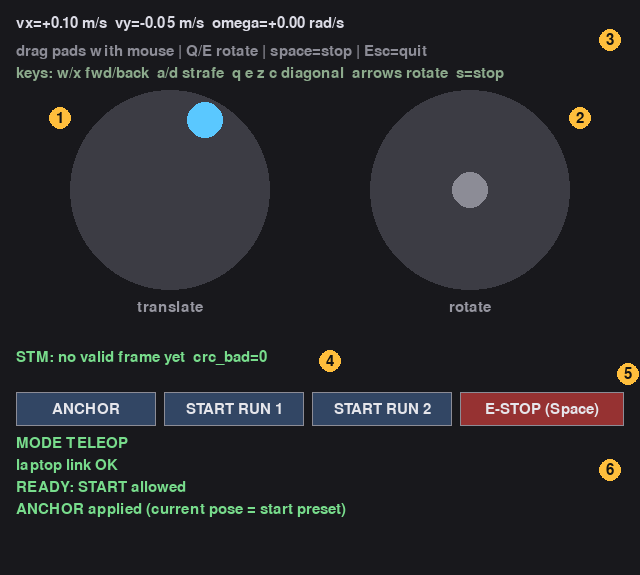
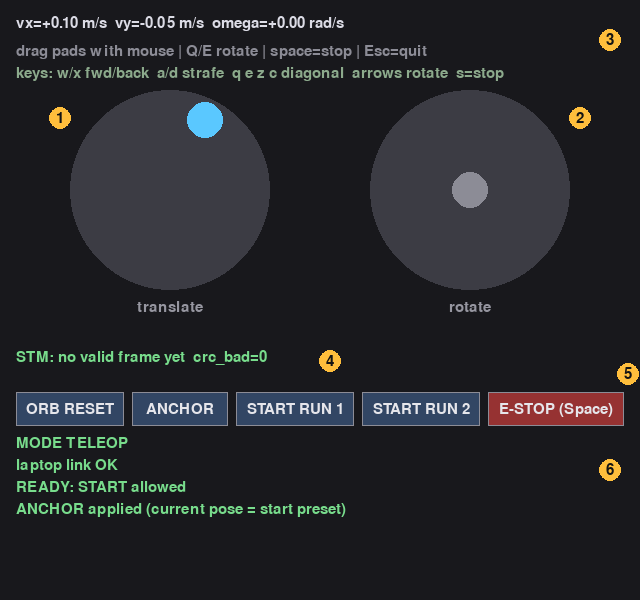
ksrc: ORB 자동 재시작이 ORB를 계속 죽이던 문제 수정, 조이스틱 ORB RESET 버튼 추가
- 원인: 복구 중 runner가 2초 뒤부터 8초마다 restart_orb를 요청해 ORB를 재시작했고, ORB는 어휘 로드·초기화로
  첫 pose까지 8~10초가 걸려(Pi 실측: 첫 orb_ok 8.0~10.1 s) 매번 pose 직전에 죽었다. 추적을 한 번 잃으면
  복구가 영영 끝나지 않았다(세션 224311·230802·231151에서 ORB 13~32회 재시작, 복구 0)
- 수정: ORB 프레임이 10초 넘게 끊겼을 때만 재시작을 요청하고, 재시작 후 30초는 다시 죽이지 않는다
  (orb_restart_due). 시작에 10초 걸리는 ORB가 복구되는 시뮬레이션 회귀 테스트 추가
- ORB RESET 버튼: ORB_RESET op(6)을 gateway가 TELEOP일 때만 runner로 전달, runner는 pose를 보존한 복구 절차로
  들어가고 restart_orb를 만든다. 대기 중에만 활성(AUTO 중 회색). 재시작 후 30초 유예 적용
- FAKE 스택으로 ORB_RESET → restart_orb 생성·recovery_start(operator_orb_reset) 확인
- CLI.md: ORB RESET 사용법·상태 줄·막혔을 때 표, 스크린샷 갱신
- ORIGIN.json의 control_gateway 해시 갱신

diff --git a/deployment/ksrc/runner.py b/deployment/ksrc/runner.py
@@ -41,6 +41,16 @@ def pack_vo(seq: int, stamp_ns: int, vx: float, vy: float, valid: bool) -> bytes
     return struct.pack('<4sIqffI', b'KVO1', seq & 0xFFFFFFFF, stamp_ns, vx, vy, int(valid))
 
 
+ORB_LOST_RESTART_S = 10.   # 복구 중 이 시간 동안 ORB 프레임이 없을 때만 ORB 재시작을 요청한다(ORB가 스스로 복구할 시간)
+ORB_STARTUP_GRACE_S = 30.  # 재시작한 ORB는 어휘 로드·초기화로 첫 pose까지 8~10 s 걸린다(Pi 실측). 그동안 다시 죽이지 않는다
+
+
+def orb_restart_due(recovering: bool, now: float, next_restart: float, t: float, recovery_since: float, last_frame: float) -> bool:
+    """복구 중이고 ORB 프레임이 ORB_LOST_RESTART_S 넘게 없으며 유예가 끝났을 때만 ORB 재시작을 요청한다."""
+    return (recovering and now >= next_restart and t - recovery_since > ORB_LOST_RESTART_S
+            and t - last_frame > ORB_LOST_RESTART_S)
+
+
 GATEWAY_STATUS_KEYS = ('orb_ok', 'in_region1', 'done', 'start_aligned', 'active', 'recovering', 'run', 'stage', 'anchor_count')
 
 
@@ -287,6 +297,13 @@ class Navigation:
         self.events.append(dict(type='operator_anchor', stamp_s=now, pose=self.prior.tolist()))
         return True
 
+    def orb_reset(self, now: float) -> bool:
+        """운영자의 ORB 재시작 요청. AUTO 중에는 거절하고, 대기 중이면 pose를 보존한 채 복구 절차로 들어간다."""
+        if self.active:
+            return False
+        self.fail_tracking(now, 'operator_orb_reset')
+        return True
+
     def tick(self, now: float) -> dict:
         """50 Hz 제어에서 센서가 무효하거나 복구 중이면 0 명령을 출력한다."""
         zero = dict(command=(0., 0., 0.))
@@ -386,7 +403,7 @@ def main() -> None:
 
     signal.signal(signal.SIGTERM, stop_signal)
     signal.signal(signal.SIGINT, stop_signal)
-    seq, next_tick, next_status, next_restart, logged = 0, origin, origin, origin + 8., 0
+    seq, next_tick, next_status, next_restart, logged = 0, origin, origin, origin + ORB_STARTUP_GRACE_S, 0
     with (args.state_dir / 'navigation.jsonl').open('a', buffering=1) as log:
         try:
             while not stopped:
@@ -413,6 +430,10 @@ def main() -> None:
                                     nav.stop()
                                 elif data.get('op') == 'ANCHOR':
                                     nav.anchor(now)
+                                elif data.get('op') == 'ORB_RESET':
+                                    if nav.orb_reset(now):
+                                        (args.state_dir / 'restart_orb').touch()   # ORB 프로세스는 supervisor가 재시작한다
+                                        next_restart = time.monotonic() + ORB_STARTUP_GRACE_S   # 새 ORB가 올라올 때까지 자동 재시작 보류
                                 continue
                             stamp = float(data['monotonic_s']) - origin
                             if stamp > now + .02 or now - stamp > .5 or stamp < 0:
@@ -448,9 +469,9 @@ def main() -> None:
                     temporary.replace(args.state_dir / 'status.json')
                     log.write(json.dumps(dict(type='tick', stamp_s=t, command=result['command'], pose=nav.checkpoint.tolist(), **status)) + '\n')
                     next_status = now + .2
-                if nav.recovering and now >= next_restart and t - nav.recovery_since > 2.:
+                if orb_restart_due(nav.recovering, now, next_restart, t, nav.recovery_since, nav.last_frame):
                     (args.state_dir / 'restart_orb').touch()
-                    next_restart = now + 8.
+                    next_restart = now + ORB_STARTUP_GRACE_S
                 for event in nav.events[logged:]:
                     log.write(json.dumps(event) + '\n')
                 logged = len(nav.events)

diff --git a/teleop/ksrc_snapshot/pi/teleop/gateway_client.py b/teleop/ksrc_snapshot/pi/teleop/gateway_client.py
@@ -2,17 +2,18 @@
 # gateway_client.py
 # 설명: 조이스틱 화면이 Pi의 control_gateway(텔레옵↔자동 중계)에 제어 메시지(하트비트·비상·시작)를 보내고
 #       중계가 5 Hz로 돌려주는 상태를 받아 두는 클라이언트. pygame과 무관해서 화면 없이 시험할 수 있다.
-# 사용법: gw = GatewayClient(udp_socket, (host, 5006)); gw.tick(now); gw.start(1); gw.anchor(now); gw.lines(now)
+# 사용법: gw = GatewayClient(udp_socket, (host, 5006)); gw.tick(now); gw.start(1); gw.anchor(now); gw.orb_reset(now); gw.lines(now)
 # ================================================================
 import math
 import struct
 
 CTL = struct.Struct("<4sIB3f")   # control_gateway의 KCTL 형식: 순서번호, 동작, 값 3개
-HEARTBEAT, START, ESTOP, ANCHOR = 1, 3, 4, 5   # 번호는 control_gateway와 같다(2는 쓰지 않는다)
+HEARTBEAT, START, ESTOP, ANCHOR, ORB_RESET = 1, 3, 4, 5, 6   # 번호는 control_gateway와 같다(2는 쓰지 않는다)
 ESTOP_REPEAT = 3                 # UDP 손실에 대비해 비상 정지를 연달아 보낸다
 STATUS_FRESH_S = 1.5
 ANCHOR_REPLY_S = 1.5             # 이 시간 안에 anchor_count가 늘지 않으면 거절된 것으로 본다
 STATIONARY_NEED_S = 3.0          # control_gateway의 ready_stationary_s와 같다
+ORB_RESET_NOTE_S = 3.0           # ORB RESET을 보낸 뒤 이 시간 동안 안내 줄을 보인다
 
 
 class GatewayClient:
@@ -23,6 +24,7 @@ class GatewayClient:
         self.seq = 0
         self.status, self.status_at = {}, -math.inf
         self.next_heartbeat = 0.0
+        self.orb_reset_at = -math.inf
         self.anchor_wait, self.anchor_result = None, None   # (보낸 시각, 그때의 anchor_count), applied/rejected/sent
 
     def _send(self, op, a=0.0, b=0.0, c=0.0):
@@ -48,6 +50,14 @@ class GatewayClient:
     def anchor(self, now):
         self._send(ANCHOR)
         self.anchor_wait, self.anchor_result = (now, self.status.get("anchor_count")), None
+
+    def orb_reset(self, now):
+        self._send(ORB_RESET)
+        self.orb_reset_at = now
+
+    def orb_reset_allowed(self, now):
+        """ORB RESET이 받아들여질 조건(TELEOP·상태 최신). 정지 여부는 묻지 않는다."""
+        return now - self.status_at <= STATUS_FRESH_S and self.status.get("mode") == "TELEOP"
 
     def anchor_allowed(self, now):
         """ANCHOR가 받아들여질 조건(TELEOP·정지 3초·ORB 정상·상태 최신)이 화면 상태로 충족되는가. 출발 구역은 anchor의 조건이 아니다."""
@@ -85,6 +95,8 @@ class GatewayClient:
     def _ready_lines(self, s, now):
         """TELEOP 때 보여 줄 준비 상태·anchor 결과·직전 회차 결과."""
         out, missing = [], s.get("missing") or []
+        if now - self.orb_reset_at <= ORB_RESET_NOTE_S:
+            out.append(("ORB reset requested - hold still until it recovers", "warn"))
         if "status" in missing:
             out.append(("NOT READY: no runner status (stack starting?)", "warn"))
         elif missing:

diff --git a/tests/pi_navigation/test_runner.py b/tests/pi_navigation/test_runner.py
@@ -102,6 +102,51 @@ def test_gap_stops_and_recovery_preserves_pose_and_stage():
     assert np.linalg.norm(nav.checkpoint[:2, 3] - checkpoint[:2, 3]) < .02
 
 
+def test_orb_reset_when_idle_keeps_pose_and_recovers_on_new_map_but_is_refused_in_auto():
+    nav = make_runner()
+    feed(nav, 3.5)
+    checkpoint = nav.checkpoint.copy()
+    assert nav.orb_reset(3.5) and nav.recovering and not nav.status(3.5)['orb_ok']
+    assert nav.events[-1]['type'] == 'recovery_start' and nav.events[-1]['reason'] == 'operator_orb_reset'
+    new_origin = np.eye(4)
+    new_origin[:3, 3] = [50, -10, 2]
+    for i in range(176, 260):                 # 재시작한 ORB가 새 map(새 원점)으로 pose를 내보낸다
+        t = i / 50
+        nav.imu(t, .02, [0, 0, 0], [0, 0, 9.81], 0.)
+        if i % 3 == 0:
+            nav.frame(t, new_origin, 'orb_map_1', 2)
+        nav.tick(t)
+    assert not nav.recovering and nav.status(5.2)['orb_ok']
+    assert np.linalg.norm(nav.checkpoint[:2, 3] - checkpoint[:2, 3]) < .02      # 위치는 직전 checkpoint에서 이어진다
+    assert nav.start(1, 5.2)
+    assert not nav.orb_reset(5.3) and not nav.recovering                         # AUTO 중에는 거절
+
+
+def test_orb_restart_is_requested_only_when_frames_are_really_gone():
+    import runner
+    due = runner.orb_restart_due
+    assert not due(False, 100., 0., 50., 0., -1.)                       # 복구 중이 아니다
+    assert not due(True, 100., 0., 5., 0., -1.)                         # 복구 시작 5 s: ORB가 스스로 복구할 시간
+    assert not due(True, 100., 0., 40., 20., 39.)                       # 프레임이 계속 들어온다(복구가 진행 중)
+    assert not due(True, 100., 200., 40., 20., 10.)                     # 재시작 직후 유예 중
+    assert due(True, 100., 0., 40., 20., 10.)                           # 20 s 복구 중, 30 s 동안 프레임 없음
+    assert due(True, 100., 0., 40., 20., float('-inf'))
+
+
+def test_slow_starting_orb_is_not_killed_before_its_first_pose():
+    """ORB가 재시작 후 첫 pose까지 10 s 걸려도, 자동 재시작이 8 s마다 죽이던 때와 달리 한 번에 복구된다."""
+    import runner
+    next_restart, restarts, orb_started, orb_stuck, last_frame = 0., 0, None, True, float('-inf')
+    recovery_since = 0.                                                     # t=0에 추적 상실, ORB는 멈춘 상태
+    for step in range(0, 1200):
+        t = step / 10
+        if runner.orb_restart_due(True, t, next_restart, t, recovery_since, last_frame):
+            restarts, orb_started, orb_stuck, next_restart = restarts + 1, t, False, t + runner.ORB_STARTUP_GRACE_S
+        if not orb_stuck and t - orb_started >= 10.:                       # 재시작 후 10 s 뒤부터 프레임을 낸다
+            last_frame = t
+    assert restarts == 1 and last_frame > 100.
+
+
 def test_duplicate_imu_does_not_extend_freshness():
     nav = make_runner()
     nav.imu(.02, .02, [0, 0, 0], [0, 0, 9.81], 0.)

diff --git a/deployment/ksrc/runtime/ksrc_runtime/handheld_mapping/control_gateway.py b/deployment/ksrc/runtime/ksrc_runtime/handheld_mapping/control_gateway.py
@@ -20,7 +20,7 @@ from typing import Callable
 
 CMD_FORMAT = '<4sIfff'      # run_policy 수신 형식과 같다: b'KSRC', 순서번호, vx, vy, ω
 CTL_FORMAT = '<4sIB3f'      # 제어: b'KCTL', 순서번호, 동작, 값 3개
-HEARTBEAT, POSE, START, ESTOP, ANCHOR = 1, 2, 3, 4, 5
+HEARTBEAT, POSE, START, ESTOP, ANCHOR, ORB_RESET = 1, 2, 3, 4, 5, 6
 RESTART_GAP = 1000          # 순서번호가 이만큼 이상 뒤로 가면 보내는 쪽이 다시 시작한 것으로 본다
 ZERO = (0., 0., 0.)
 
@@ -58,10 +58,11 @@ class Gateway:
 
     def __init__(self, send: Callable[[float, float, float], None], on_start: Callable[[int], None] | None = None,
                  on_pose: Callable[..., None] | None = None, on_stop: Callable[[], None] | None = None,
-                 on_anchor: Callable[[], None] | None = None,
+                 on_anchor: Callable[[], None] | None = None, on_orb_reset: Callable[[], None] | None = None,
                  stale_s: float = .3, keepalive_s: float = .02, estop_hold_s: float = .5,
                  ready_stationary_s: float = 3., status_max_age_s: float = 1., link_timeout_s: float = 1.) -> None:
         self.send, self.on_start, self.on_pose, self.on_stop, self.on_anchor = send, on_start, on_pose, on_stop, on_anchor
+        self.on_orb_reset = on_orb_reset
         self.stale_s, self.keepalive_s, self.estop_hold_s = stale_s, keepalive_s, estop_hold_s
         self.ready_stationary_s, self.status_max_age_s, self.link_timeout_s = ready_stationary_s, status_max_age_s, link_timeout_s
         self.mode, self.run_id = 'TELEOP', 0
@@ -134,6 +135,12 @@ class Gateway:
             if self.on_anchor:
                 self.on_anchor()
             return True
+        if op == ORB_RESET:   # AUTO 중 실수로 주행이 멈추지 않게 TELEOP일 때만 전달한다
+            if self.mode != 'TELEOP' or now < self.zero_until:
+                return False
+            if self.on_orb_reset:
+                self.on_orb_reset()
+            return True
         return False
 
     def tick(self, now: float) -> None:
@@ -188,7 +195,8 @@ def serve(sockets, policy_addr: tuple[str, int], stop: threading.Event, runner_a
 
     gateway = Gateway(send, on_start=lambda run: to_runner(dict(op='START', run=run)),
                       on_pose=lambda x, y, yaw: to_runner(dict(op='POSE', x=x, y=y, yaw=yaw)),
-                      on_stop=lambda: to_runner(dict(op='STOP')), on_anchor=lambda: to_runner(dict(op='ANCHOR')))
+                      on_stop=lambda: to_runner(dict(op='STOP')), on_anchor=lambda: to_runner(dict(op='ANCHOR')),
+                      on_orb_reset=lambda: to_runner(dict(op='ORB_RESET')))
     last = dict(teleop=-1, auto=-1, ctl=-1)
     gui, next_status = None, 0.
     while not stop.is_set():

diff --git a/experiments/handheld_mapping/control_gateway.py b/experiments/handheld_mapping/control_gateway.py
@@ -20,7 +20,7 @@ from typing import Callable
 
 CMD_FORMAT = '<4sIfff'      # run_policy 수신 형식과 같다: b'KSRC', 순서번호, vx, vy, ω
 CTL_FORMAT = '<4sIB3f'      # 제어: b'KCTL', 순서번호, 동작, 값 3개
-HEARTBEAT, POSE, START, ESTOP, ANCHOR = 1, 2, 3, 4, 5
+HEARTBEAT, POSE, START, ESTOP, ANCHOR, ORB_RESET = 1, 2, 3, 4, 5, 6
 RESTART_GAP = 1000          # 순서번호가 이만큼 이상 뒤로 가면 보내는 쪽이 다시 시작한 것으로 본다
 ZERO = (0., 0., 0.)
 
@@ -58,10 +58,11 @@ class Gateway:
 
     def __init__(self, send: Callable[[float, float, float], None], on_start: Callable[[int], None] | None = None,
                  on_pose: Callable[..., None] | None = None, on_stop: Callable[[], None] | None = None,
-                 on_anchor: Callable[[], None] | None = None,
+                 on_anchor: Callable[[], None] | None = None, on_orb_reset: Callable[[], None] | None = None,
                  stale_s: float = .3, keepalive_s: float = .02, estop_hold_s: float = .5,
                  ready_stationary_s: float = 3., status_max_age_s: float = 1., link_timeout_s: float = 1.) -> None:
         self.send, self.on_start, self.on_pose, self.on_stop, self.on_anchor = send, on_start, on_pose, on_stop, on_anchor
+        self.on_orb_reset = on_orb_reset
         self.stale_s, self.keepalive_s, self.estop_hold_s = stale_s, keepalive_s, estop_hold_s
         self.ready_stationary_s, self.status_max_age_s, self.link_timeout_s = ready_stationary_s, status_max_age_s, link_timeout_s
         self.mode, self.run_id = 'TELEOP', 0
@@ -134,6 +135,12 @@ class Gateway:
             if self.on_anchor:
                 self.on_anchor()
             return True
+        if op == ORB_RESET:   # AUTO 중 실수로 주행이 멈추지 않게 TELEOP일 때만 전달한다
+            if self.mode != 'TELEOP' or now < self.zero_until:
+                return False
+            if self.on_orb_reset:
+                self.on_orb_reset()
+            return True
         return False
 
     def tick(self, now: float) -> None:
@@ -188,7 +195,8 @@ def serve(sockets, policy_addr: tuple[str, int], stop: threading.Event, runner_a
 
     gateway = Gateway(send, on_start=lambda run: to_runner(dict(op='START', run=run)),
                       on_pose=lambda x, y, yaw: to_runner(dict(op='POSE', x=x, y=y, yaw=yaw)),
-                      on_stop=lambda: to_runner(dict(op='STOP')), on_anchor=lambda: to_runner(dict(op='ANCHOR')))
+                      on_stop=lambda: to_runner(dict(op='STOP')), on_anchor=lambda: to_runner(dict(op='ANCHOR')),
+                      on_orb_reset=lambda: to_runner(dict(op='ORB_RESET')))
     last = dict(teleop=-1, auto=-1, ctl=-1)
     gui, next_status = None, 0.
     while not stop.is_set():

diff --git a/teleop/ksrc_snapshot/pi/teleop/teleop_joystick.py b/teleop/ksrc_snapshot/pi/teleop/teleop_joystick.py
@@ -57,10 +57,10 @@ LEFT_CENTER = (170, 190)
 RIGHT_CENTER = (470, 190)
 GRAB_SLACK = 1.4  # click within radius*GRAB_SLACK of center still grabs the pad
 ROTATION_SPEED_SCALE = 0.5  # 패드와 Q/E의 회전 명령만 50%로 제한
-GW_EXTRA_HEIGHT = 195  # --gateway: 창 아래에 버튼·상태 줄(최대 6줄)을 더한다
+GW_EXTRA_HEIGHT = 220  # --gateway: 창 아래에 버튼·상태 줄(최대 7줄)을 더한다
 GW_BUTTONS = {name: (x, HEIGHT + 12, w, 34) for name, x, w in
-              (("anchor", 16, 140), ("start1", 164, 140), ("start2", 312, 140), ("estop", 460, 164))}
-GW_LABELS = {"anchor": "ANCHOR", "start1": "START RUN 1", "start2": "START RUN 2", "estop": "E-STOP (Space)"}
+              (("orbreset", 16, 108), ("anchor", 132, 96), ("start1", 236, 118), ("start2", 362, 118), ("estop", 488, 136))}
+GW_LABELS = {"orbreset": "ORB RESET", "anchor": "ANCHOR", "start1": "START RUN 1", "start2": "START RUN 2", "estop": "E-STOP (Space)"}
 GW_COLORS = {"ok": (120, 220, 140), "warn": (240, 200, 90), "bad": (240, 110, 110)}
 
 
@@ -243,6 +243,9 @@ def run(args):
                     name = next(n for n, rect in gw_rects.items() if rect.collidepoint(event.pos))
                     if name == "estop":
                         gw.estop()
+                    elif name == "orbreset":
+                        if gw.orb_reset_allowed(time.monotonic()):   # AUTO 중에는 눌러도 보내지 않는다
+                            gw.orb_reset(time.monotonic())
                     elif name == "anchor":
                         if gw.anchor_allowed(time.monotonic()):   # 정지 3초·ORB 정상이 아니면 눌러도 보내지 않는다
                             gw.anchor(time.monotonic())
@@ -360,7 +363,7 @@ def run(args):
 
             if gw is not None:
                 for name, rect in gw_rects.items():
-                    disabled = name == "anchor" and not gw.anchor_allowed(now)   # 회색: 지금은 누를 수 없다
+                    disabled = (name == "anchor" and not gw.anchor_allowed(now)) or (name == "orbreset" and not gw.orb_reset_allowed(now))   # 회색: 지금은 누를 수 없다
                     pygame.draw.rect(screen, (150, 50, 50) if name == "estop" else (38, 40, 46) if disabled else (50, 70, 100), rect)
                     pygame.draw.rect(screen, (80, 80, 88) if disabled else (140, 140, 150), rect, 1)
                     label = font.render(GW_LABELS[name], True, (110, 110, 120) if disabled else (230, 230, 235))

diff --git a/tests/handheld_mapping/test_gateway_client.py b/tests/handheld_mapping/test_gateway_client.py
@@ -68,6 +68,21 @@ def test_anchor_is_allowed_only_when_teleop_stationary_orb_ok_and_status_fresh()
     assert not client.anchor_allowed(7.1)
 
 
+def test_orb_reset_packet_allowed_only_in_teleop_and_note_fades():
+    sock = Capture()
+    client = gc.GatewayClient(sock, ('pi', 5006))
+    assert not client.orb_reset_allowed(0.)                                         # 상태를 못 받음
+    client.consume({'mode': 'TELEOP', 'missing': ['stationary_s', 'orb_ok'], 'link_ok': True}, 1.)
+    assert client.orb_reset_allowed(1.1)                                            # ORB가 안 되는 때가 바로 쓰는 때다
+    client.orb_reset(1.1)
+    assert [cg.parse_ctl(d)[1] for d, _ in sock.packets] == [cg.ORB_RESET]
+    assert any('ORB reset requested' in t for t, _ in client.lines(1.2))
+    client.consume({'mode': 'TELEOP', 'missing': [], 'link_ok': True}, 5.)
+    assert not any('ORB reset requested' in t for t, _ in client.lines(5.1))
+    client.consume({'mode': 'AUTO', 'run': 1, 'missing': [], 'link_ok': True}, 6.)
+    assert not client.orb_reset_allowed(6.1)
+
+
 def test_anchor_packet_is_readable_by_the_gateway():
     sock = Capture()
     gc.GatewayClient(sock, ('pi', 5006)).anchor(0.)
@@ -221,6 +236,17 @@ def test_anchor_button_is_ignored_until_stationary_and_orb_ok(window):
     time.sleep(.3)
     post_click(window, 'anchor')
     assert any(op == cg.ANCHOR for op, _ in collect(window.gateway, .6))
+
+
+def test_orb_reset_button_sends_in_teleop_and_is_ignored_in_auto(window):
+    reply_status(window)
+    time.sleep(.3)
+    post_click(window, 'orbreset')
+    assert any(op == cg.ORB_RESET for op, _ in collect(window.gateway, .6))
+    reply_status(window, mode='AUTO', run=1)
+    time.sleep(.3)
+    post_click(window, 'orbreset')
+    assert not any(op == cg.ORB_RESET for op, _ in collect(window.gateway, .5))
 
 
 def test_window_without_gateway_flag_keeps_old_behaviour():

diff --git a/tests/handheld_mapping/test_control_gateway.py b/tests/handheld_mapping/test_control_gateway.py
@@ -142,6 +142,18 @@ def test_anchor_is_forwarded_to_runner_only_in_teleop_and_after_estop_hold():
     assert gateway.control(cg.ANCHOR, (0, 0, 0), 11.) and anchored == [1, 1]
 
 
+def test_orb_reset_is_forwarded_to_runner_only_in_teleop_and_after_estop_hold():
+    resets = []
+    gateway, _ = make(on_orb_reset=lambda: resets.append(1))
+    gateway.runner_status(dict(READY), 10.)
+    assert gateway.control(cg.ORB_RESET, (0, 0, 0), 10.1) and resets == [1]
+    gateway.control(cg.START, (1, 0, 0), 10.2)
+    assert not gateway.control(cg.ORB_RESET, (0, 0, 0), 10.3) and resets == [1]     # AUTO 중에는 받지 않는다
+    gateway.control(cg.ESTOP, (0, 0, 0), 10.4)
+    assert not gateway.control(cg.ORB_RESET, (0, 0, 0), 10.5) and resets == [1]     # 비상 정지 유지 시간
+    assert gateway.control(cg.ORB_RESET, (0, 0, 0), 11.) and resets == [1, 1]
+
+
 def test_snapshot_passes_runner_detail_to_the_screen_only_while_fresh():
     gateway, _ = make()
     gateway.runner_status(dict(READY, stage='entry30', run=1, reason='complete', anchor_count=2, done=True, active=False), 10.)
